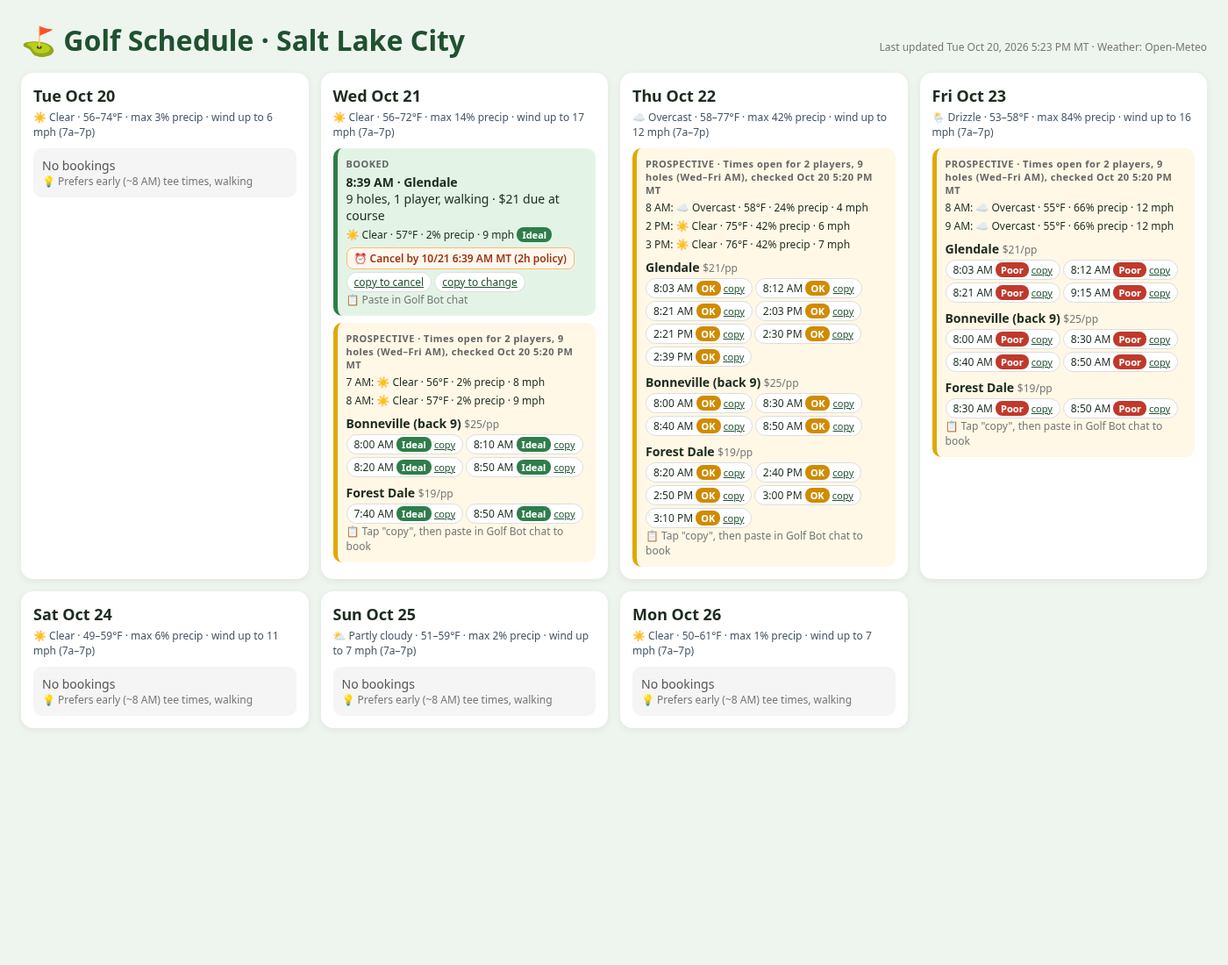
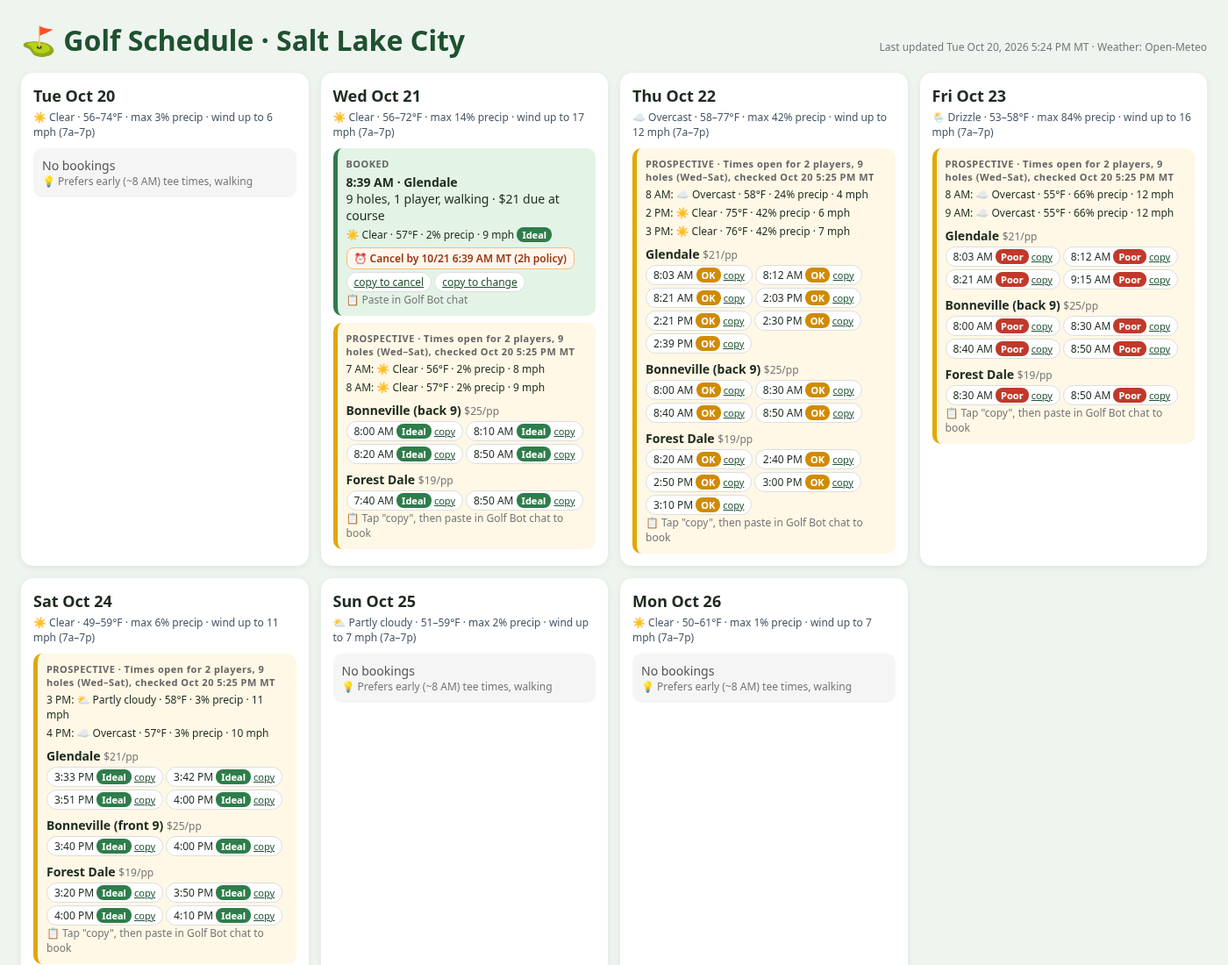
Update schedule 2026-10-20 17:24 MT

diff --git a/index.html b/index.html
@@ -9,5 +9,5 @@ h1{margin:0;color:#1f5130} .top{display:flex;justify-content:space-between;align
 .muted{color:#777;font-size:12px} .wx{font-size:12px;margin-top:4px} .prow{margin-top:8px}
 .cancelby{margin-top:6px;font-size:12px;font-weight:600;color:#9a3412;background:#fff7ed;border:1px solid #fdba74;border-radius:8px;padding:3px 8px;display:inline-block} .copy{font-size:11px;color:#1f5130} .chip{display:inline-block;background:#fff;border:1px solid #ddd;border-radius:14px;padding:2px 8px;margin:3px 3px 0 0;font-size:12px}
 .badge{border-radius:8px;padding:1px 6px;font-size:11px;font-weight:700;color:#fff} .ideal{background:#2e7d4a} .ok{background:#d08b00} .poor{background:#c0392b} .na{background:#888}
-</style></head><body><div class="top"><h1>⛳ Golf Schedule · Salt Lake City</h1><div class="muted">Last updated Tue Oct 20, 2026 5:23 PM MT · Weather: Open-Meteo</div></div>
-<div class="grid"><section class="day"><h2>Tue Oct 20</h2><div class="sum">☀ Clear · 56–74°F · max 3% precip · wind up to 6 mph (7a–7p)</div><div class="slot empty">No bookings<div class="muted">💡 Prefers early (~8 AM) tee times, walking</div></div></section><section class="day"><h2>Wed Oct 21</h2><div class="sum">☀ Clear · 56–72°F · max 14% precip · wind up to 17 mph (7a–7p)</div><div class="slot booked"><div class="tag">BOOKED</div><b>8:39 AM · Glendale</b><div>9 holes, 1 player, walking · $21 due at course</div><div class="wx">☀ Clear · 57°F · 2% precip · 9 mph <span class="badge ideal">Ideal</span></div><div class="cancelby">⏰ Cancel by 10/21 6:39 AM MT (2h policy)</div><a href="#" class="copy chip" data-msg="Cancel my Glendale tee time Wed Oct 21 8:39 AM" onclick="navigator.clipboard.writeText(this.dataset.msg);this.textContent='copied!';return false">copy to cancel</a><a href="#" class="copy chip" data-msg="Change my Glendale tee time Wed Oct 21 8:39 AM" onclick="navigator.clipboard.writeText(this.dataset.msg);this.textContent='copied!';return false">copy to change</a><div class="muted">📋 Paste in Golf Bot chat</div></div><div class="slot prospect"><div class="tag">PROSPECTIVE · Times open for 2 players, 9 holes (Wed–Fri AM), checked Oct 20 5:20 PM MT</div><div class="wx">7 AM: ☀ Clear · 56°F · 2% precip · 8 mph</div><div class="wx">8 AM: ☀ Clear · 57°F · 2% precip · 9 mph</div><div class="prow"><b>Bonneville (back 9)</b> <span class="muted">$25/pp</span><div><span class="chip">8:00 AM <span class="badge ideal" title="☀ Clear · 57°F · 2% precip · 9 mph">Ideal</span> <a href="#" class="copy" data-msg="Book Bonneville (back 9) Wed Oct 21 8:00 AM" onclick="navigator.clipboard.writeText(this.dataset.msg);this.textContent='copied!';return false">copy</a></span><span class="chip">8:10 AM <span class="badge ideal" title="☀ Clear · 57°F · 2% precip · 9 mph">Ideal</span> <a href="#" class="copy" data-msg="Book Bonneville (back 9) Wed Oct 21 8:10 AM" onclick="navigator.clipboard.writeText(this.dataset.msg);this.textContent='copied!';return false">copy</a></span><span class="chip">8:20 AM <span class="badge ideal" title="☀ Clear · 57°F · 2% precip · 9 mph">Ideal</span> <a href="#" class="copy" data-msg="Book Bonneville (back 9) Wed Oct 21 8:20 AM" onclick="navigator.clipboard.writeText(this.dataset.msg);this.textContent='copied!';return false">copy</a></span><span class="chip">8:50 AM <span class="badge ideal" title="☀ Clear · 57°F · 2% precip · 9 mph">Ideal</span> <a href="#" class="copy" data-msg="Book Bonneville (back 9) Wed Oct 21 8:50 AM" onclick="navigator.clipboard.writeText(this.dataset.msg);this.textContent='copied!';return false">copy</a></span></div></div><div class="prow"><b>Forest Dale</b> <span class="muted">$19/pp</span><div><span class="chip">7:40 AM <span class="badge ideal" title="☀ Clear · 56°F · 2% precip · 8 mph">Ideal</span> <a href="#" class="copy" data-msg="Book Forest Dale Wed Oct 21 7:40 AM" onclick="navigator.clipboard.writeText(this.dataset.msg);this.textContent='copied!';return false">copy</a></span><span class="chip">8:50 AM <span class="badge ideal" title="☀ Clear · 57°F · 2% precip · 9 mph">Ideal</span> <a href="#" class="copy" data-msg="Book Forest Dale Wed Oct 21 8:50 AM" onclick="navigator.clipboard.writeText(this.dataset.msg);this.textContent='copied!';return false">copy</a></span></div></div><div class="muted">📋 Tap "copy", then paste in Golf Bot chat to book</div></div></section><section class="day"><h2>Thu Oct 22</h2><div class="sum">☁ Overcast · 58–77°F · max 42% precip · wind up to 12 mph (7a–7p)</div><div class="slot prospect"><div class="tag">PROSPECTIVE · Times open for 2 players, 9 holes (Wed–Fri AM), checked Oct 20 5:20 PM MT</div><div class="wx">8 AM: ☁ Overcast · 58°F · 24% precip · 4 mph</div><div class="wx">2 PM: ☀ Clear · 75°F · 42% precip · 6 mph</div><div class="wx">3 PM: ☀ Clear · 76°F · 42% precip · 7 mph</div><div class="prow"><b>Glendale</b> <span class="muted">$21/pp</span><div><span class="chip">8:03 AM <span class="badge ok" title="☁ Overcast · 58°F · 24% precip · 4 mph">OK</span> <a href="#" class="copy" data-msg="Book Glendale Thu Oct 22 8:03 AM" onclick="navigator.clipboard.writeText(this.dataset.msg);this.textContent='copied!';return false">copy</a></span><span class="chip">8:12 AM <span class="badge ok" title="☁ Overcast · 58°F · 24% precip · 4 mph">OK</span> <a href="#" class="copy" data-msg="Book Glendale Thu Oct 22 8:12 AM" onclick="navigator.clipboard.writeText(this.dataset.msg);this.textContent='copied!';return false">copy</a></span><span class="chip">8:21 AM <span class="badge ok" title="☁ Overcast · 58°F · 24% precip · 4 mph">OK</span> <a href="#" class="copy" data-msg="Book Glendale Thu Oct 22 8:21 AM" onclick="navigator.clipboard.writeText(this.dataset.msg);this.textContent='copied!';return false">copy</a></span><span class="chip">2:03 PM <span class="badge ok" title="☀ Clear · 75°F · 42% precip · 6 mph">OK</span> <a href="#" class="copy" data-msg="Book Glendale Thu Oct 22 2:03 PM" onclick="navigator.clipboard.writeText(this.dataset.msg);this.textContent='copied!';return false">copy</a></span><span class="chip">2:21 PM <span class="badge ok" title="☀ Clear · 75°F · 42% precip · 6 mph">OK</span> <a href="#" class="copy" data-msg="Book Glendale Thu Oct 22 2:21 PM" onclick="navigator.clipboard.writeText(this.dataset.msg);this.textContent='copied!';return false">copy</a></span><span class="chip">2:30 PM <span class="badge ok" title="☀ Clear · 75°F · 42% precip · 6 mph">OK</span> <a href="#" class="copy" data-msg="Book Glendale Thu Oct 22 2:30 PM" onclick="navigator.clipboard.writeText(this.dataset.msg);this.textContent='copied!';return false">copy</a></span><span class="chip">2:39 PM <span class="badge ok" title="☀ Clear · 75°F · 42% precip · 6 mph">OK</span> <a href="#" class="copy" data-msg="Book Glendale Thu Oct 22 2:39 PM" onclick="navigator.clipboard.writeText(this.dataset.msg);this.textContent='copied!';return false">copy</a></span></div></div><div class="prow"><b>Bonneville (back 9)</b> <span class="muted">$25/pp</span><div><span class="chip">8:00 AM <span class="badge ok" title="☁ Overcast · 58°F · 24% precip · 4 mph">OK</span> <a href="#" class="copy" data-msg="Book Bonneville (back 9) Thu Oct 22 8:00 AM" onclick="navigator.clipboard.writeText(this.dataset.msg);this.textContent='copied!';return false">copy</a></span><span class="chip">8:30 AM <span class="badge ok" title="☁ Overcast · 58°F · 24% precip · 4 mph">OK</span> <a href="#" class="copy" data-msg="Book Bonneville (back 9) Thu Oct 22 8:30 AM" onclick="navigator.clipboard.writeText(this.dataset.msg);this.textContent='copied!';return false">copy</a></span><span class="chip">8:40 AM <span class="badge ok" title="☁ Overcast · 58°F · 24% precip · 4 mph">OK</span> <a href="#" class="copy" data-msg="Book Bonneville (back 9) Thu Oct 22 8:40 AM" onclick="navigator.clipboard.writeText(this.dataset.msg);this.textContent='copied!';return false">copy</a></span><span class="chip">8:50 AM <span class="badge ok" title="☁ Overcast · 58°F · 24% precip · 4 mph">OK</span> <a href="#" class="copy" data-msg="Book Bonneville (back 9) Thu Oct 22 8:50 AM" onclick="navigator.clipboard.writeText(this.dataset.msg);this.textContent='copied!';return false">copy</a></span></div></div><div class="prow"><b>Forest Dale</b> <span class="muted">$19/pp</span><div><span class="chip">8:20 AM <span class="badge ok" title="☁ Overcast · 58°F · 24% precip · 4 mph">OK</span> <a href="#" class="copy" data-msg="Book Forest Dale Thu Oct 22 8:20 AM" onclick="navigator.clipboard.writeText(this.dataset.msg);this.textContent='copied!';return false">copy</a></span><span class="chip">2:40 PM <span class="badge ok" title="☀ Clear · 75°F · 42% precip · 6 mph">OK</span> <a href="#" class="copy" data-msg="Book Forest Dale Thu Oct 22 2:40 PM" onclick="navigator.clipboard.writeText(this.dataset.msg);this.textContent='copied!';return false">copy</a></span><span class="chip">2:50 PM <span class="badge ok" title="☀ Clear · 75°F · 42% precip · 6 mph">OK</span> <a href="#" class="copy" data-msg="Book Forest Dale Thu Oct 22 2:50 PM" onclick="navigator.clipboard.writeText(this.dataset.msg);this.textContent='copied!';return false">copy</a></span><span class="chip">3:00 PM <span class="badge ok" title="☀ Clear · 76°F · 42% precip · 7 mph">OK</span> <a href="#" class="copy" data-msg="Book Forest Dale Thu Oct 22 3:00 PM" onclick="navigator.clipboard.writeText(this.dataset.msg);this.textContent='copied!';return false">copy</a></span><span class="chip">3:10 PM <span class="badge ok" title="☀ Clear · 76°F · 42% precip · 7 mph">OK</span> <a href="#" class="copy" data-msg="Book Forest Dale Thu Oct 22 3:10 PM" onclick="navigator.clipboard.writeText(this.dataset.msg);this.textContent='copied!';return false">copy</a></span></div></div><div class="muted">📋 Tap "copy", then paste in Golf Bot chat to book</div></div></section><section class="day"><h2>Fri Oct 23</h2><div class="sum">🌦 Drizzle · 53–58°F · max 84% precip · wind up to 16 mph (7a–7p)</div><div class="slot prospect"><div class="tag">PROSPECTIVE · Times open for 2 players, 9 holes (Wed–Fri AM), checked Oct 20 5:20 PM MT</div><div class="wx">8 AM: ☁ Overcast · 55°F · 66% precip · 12 mph</div><div class="wx">9 AM: ☁ Overcast · 55°F · 66% precip · 12 mph</div><div class="prow"><b>Glendale</b> <span class="muted">$21/pp</span><div><span class="chip">8:03 AM <span class="badge poor" title="☁ Overcast · 55°F · 66% precip · 12 mph">Poor</span> <a href="#" class="copy" data-msg="Book Glendale Fri Oct 23 8:03 AM" onclick="navigator.clipboard.writeText(this.dataset.msg);this.textContent='copied!';return false">copy</a></span><span class="chip">8:12 AM <span class="badge poor" title="☁ Overcast · 55°F · 66% precip · 12 mph">Poor</span> <a href="#" class="copy" data-msg="Book Glendale Fri Oct 23 8:12 AM" onclick="navigator.clipboard.writeText(this.dataset.msg);this.textContent='copied!';return false">copy</a></span><span class="chip">8:21 AM <span class="badge poor" title="☁ Overcast · 55°F · 66% precip · 12 mph">Poor</span> <a href="#" class="copy" data-msg="Book Glendale Fri Oct 23 8:21 AM" onclick="navigator.clipboard.writeText(this.dataset.msg);this.textContent='copied!';return false">copy</a></span><span class="chip">9:15 AM <span class="badge poor" title="☁ Overcast · 55°F · 66% precip · 12 mph">Poor</span> <a href="#" class="copy" data-msg="Book Glendale Fri Oct 23 9:15 AM" onclick="navigator.clipboard.writeText(this.dataset.msg);this.textContent='copied!';return false">copy</a></span></div></div><div class="prow"><b>Bonneville (back 9)</b> <span class="muted">$25/pp</span><div><span class="chip">8:00 AM <span class="badge poor" title="☁ Overcast · 55°F · 66% precip · 12 mph">Poor</span> <a href="#" class="copy" data-msg="Book Bonneville (back 9) Fri Oct 23 8:00 AM" onclick="navigator.clipboard.writeText(this.dataset.msg);this.textContent='copied!';return false">copy</a></span><span class="chip">8:30 AM <span class="badge poor" title="☁ Overcast · 55°F · 66% precip · 12 mph">Poor</span> <a href="#" class="copy" data-msg="Book Bonneville (back 9) Fri Oct 23 8:30 AM" onclick="navigator.clipboard.writeText(this.dataset.msg);this.textContent='copied!';return false">copy</a></span><span class="chip">8:40 AM <span class="badge poor" title="☁ Overcast · 55°F · 66% precip · 12 mph">Poor</span> <a href="#" class="copy" data-msg="Book Bonneville (back 9) Fri Oct 23 8:40 AM" onclick="navigator.clipboard.writeText(this.dataset.msg);this.textContent='copied!';return false">copy</a></span><span class="chip">8:50 AM <span class="badge poor" title="☁ Overcast · 55°F · 66% precip · 12 mph">Poor</span> <a href="#" class="copy" data-msg="Book Bonneville (back 9) Fri Oct 23 8:50 AM" onclick="navigator.clipboard.writeText(this.dataset.msg);this.textContent='copied!';return false">copy</a></span></div></div><div class="prow"><b>Forest Dale</b> <span class="muted">$19/pp</span><div><span class="chip">8:30 AM <span class="badge poor" title="☁ Overcast · 55°F · 66% precip · 12 mph">Poor</span> <a href="#" class="copy" data-msg="Book Forest Dale Fri Oct 23 8:30 AM" onclick="navigator.clipboard.writeText(this.dataset.msg);this.textContent='copied!';return false">copy</a></span><span class="chip">8:50 AM <span class="badge poor" title="☁ Overcast · 55°F · 66% precip · 12 mph">Poor</span> <a href="#" class="copy" data-msg="Book Forest Dale Fri Oct 23 8:50 AM" onclick="navigator.clipboard.writeText(this.dataset.msg);this.textContent='copied!';return false">copy</a></span></div></div><div class="muted">📋 Tap "copy", then paste in Golf Bot chat to book</div></div></section><section class="day"><h2>Sat Oct 24</h2><div class="sum">☀ Clear · 49–59°F · max 6% precip · wind up to 11 mph (7a–7p)</div><div class="slot empty">No bookings<div class="muted">💡 Prefers early (~8 AM) tee times, walking</div></div></section><section class="day"><h2>Sun Oct 25</h2><div class="sum">⛅ Partly cloudy · 51–59°F · max 2% precip · wind up to 7 mph (7a–7p)</div><div class="slot empty">No bookings<div class="muted">💡 Prefers early (~8 AM) tee times, walking</div></div></section><section class="day"><h2>Mon Oct 26</h2><div class="sum">☀ Clear · 50–61°F · max 1% precip · wind up to 7 mph (7a–7p)</div><div class="slot empty">No bookings<div class="muted">💡 Prefers early (~8 AM) tee times, walking</div></div></section></div></body></html>
+</style></head><body><div class="top"><h1>⛳ Golf Schedule · Salt Lake City</h1><div class="muted">Last updated Tue Oct 20, 2026 5:24 PM MT · Weather: Open-Meteo</div></div>
+<div class="grid"><section class="day"><h2>Tue Oct 20</h2><div class="sum">☀ Clear · 56–74°F · max 3% precip · wind up to 6 mph (7a–7p)</div><div class="slot empty">No bookings<div class="muted">💡 Prefers early (~8 AM) tee times, walking</div></div></section><section class="day"><h2>Wed Oct 21</h2><div class="sum">☀ Clear · 56–72°F · max 14% precip · wind up to 17 mph (7a–7p)</div><div class="slot booked"><div class="tag">BOOKED</div><b>8:39 AM · Glendale</b><div>9 holes, 1 player, walking · $21 due at course</div><div class="wx">☀ Clear · 57°F · 2% precip · 9 mph <span class="badge ideal">Ideal</span></div><div class="cancelby">⏰ Cancel by 10/21 6:39 AM MT (2h policy)</div><a href="#" class="copy chip" data-msg="Cancel my Glendale tee time Wed Oct 21 8:39 AM" onclick="navigator.clipboard.writeText(this.dataset.msg);this.textContent='copied!';return false">copy to cancel</a><a href="#" class="copy chip" data-msg="Change my Glendale tee time Wed Oct 21 8:39 AM" onclick="navigator.clipboard.writeText(this.dataset.msg);this.textContent='copied!';return false">copy to change</a><div class="muted">📋 Paste in Golf Bot chat</div></div><div class="slot prospect"><div class="tag">PROSPECTIVE · Times open for 2 players, 9 holes (Wed–Sat), checked Oct 20 5:25 PM MT</div><div class="wx">7 AM: ☀ Clear · 56°F · 2% precip · 8 mph</div><div class="wx">8 AM: ☀ Clear · 57°F · 2% precip · 9 mph</div><div class="prow"><b>Bonneville (back 9)</b> <span class="muted">$25/pp</span><div><span class="chip">8:00 AM <span class="badge ideal" title="☀ Clear · 57°F · 2% precip · 9 mph">Ideal</span> <a href="#" class="copy" data-msg="Book Bonneville (back 9) Wed Oct 21 8:00 AM" onclick="navigator.clipboard.writeText(this.dataset.msg);this.textContent='copied!';return false">copy</a></span><span class="chip">8:10 AM <span class="badge ideal" title="☀ Clear · 57°F · 2% precip · 9 mph">Ideal</span> <a href="#" class="copy" data-msg="Book Bonneville (back 9) Wed Oct 21 8:10 AM" onclick="navigator.clipboard.writeText(this.dataset.msg);this.textContent='copied!';return false">copy</a></span><span class="chip">8:20 AM <span class="badge ideal" title="☀ Clear · 57°F · 2% precip · 9 mph">Ideal</span> <a href="#" class="copy" data-msg="Book Bonneville (back 9) Wed Oct 21 8:20 AM" onclick="navigator.clipboard.writeText(this.dataset.msg);this.textContent='copied!';return false">copy</a></span><span class="chip">8:50 AM <span class="badge ideal" title="☀ Clear · 57°F · 2% precip · 9 mph">Ideal</span> <a href="#" class="copy" data-msg="Book Bonneville (back 9) Wed Oct 21 8:50 AM" onclick="navigator.clipboard.writeText(this.dataset.msg);this.textContent='copied!';return false">copy</a></span></div></div><div class="prow"><b>Forest Dale</b> <span class="muted">$19/pp</span><div><span class="chip">7:40 AM <span class="badge ideal" title="☀ Clear · 56°F · 2% precip · 8 mph">Ideal</span> <a href="#" class="copy" data-msg="Book Forest Dale Wed Oct 21 7:40 AM" onclick="navigator.clipboard.writeText(this.dataset.msg);this.textContent='copied!';return false">copy</a></span><span class="chip">8:50 AM <span class="badge ideal" title="☀ Clear · 57°F · 2% precip · 9 mph">Ideal</span> <a href="#" class="copy" data-msg="Book Forest Dale Wed Oct 21 8:50 AM" onclick="navigator.clipboard.writeText(this.dataset.msg);this.textContent='copied!';return false">copy</a></span></div></div><div class="muted">📋 Tap "copy", then paste in Golf Bot chat to book</div></div></section><section class="day"><h2>Thu Oct 22</h2><div class="sum">☁ Overcast · 58–77°F · max 42% precip · wind up to 12 mph (7a–7p)</div><div class="slot prospect"><div class="tag">PROSPECTIVE · Times open for 2 players, 9 holes (Wed–Sat), checked Oct 20 5:25 PM MT</div><div class="wx">8 AM: ☁ Overcast · 58°F · 24% precip · 4 mph</div><div class="wx">2 PM: ☀ Clear · 75°F · 42% precip · 6 mph</div><div class="wx">3 PM: ☀ Clear · 76°F · 42% precip · 7 mph</div><div class="prow"><b>Glendale</b> <span class="muted">$21/pp</span><div><span class="chip">8:03 AM <span class="badge ok" title="☁ Overcast · 58°F · 24% precip · 4 mph">OK</span> <a href="#" class="copy" data-msg="Book Glendale Thu Oct 22 8:03 AM" onclick="navigator.clipboard.writeText(this.dataset.msg);this.textContent='copied!';return false">copy</a></span><span class="chip">8:12 AM <span class="badge ok" title="☁ Overcast · 58°F · 24% precip · 4 mph">OK</span> <a href="#" class="copy" data-msg="Book Glendale Thu Oct 22 8:12 AM" onclick="navigator.clipboard.writeText(this.dataset.msg);this.textContent='copied!';return false">copy</a></span><span class="chip">8:21 AM <span class="badge ok" title="☁ Overcast · 58°F · 24% precip · 4 mph">OK</span> <a href="#" class="copy" data-msg="Book Glendale Thu Oct 22 8:21 AM" onclick="navigator.clipboard.writeText(this.dataset.msg);this.textContent='copied!';return false">copy</a></span><span class="chip">2:03 PM <span class="badge ok" title="☀ Clear · 75°F · 42% precip · 6 mph">OK</span> <a href="#" class="copy" data-msg="Book Glendale Thu Oct 22 2:03 PM" onclick="navigator.clipboard.writeText(this.dataset.msg);this.textContent='copied!';return false">copy</a></span><span class="chip">2:21 PM <span class="badge ok" title="☀ Clear · 75°F · 42% precip · 6 mph">OK</span> <a href="#" class="copy" data-msg="Book Glendale Thu Oct 22 2:21 PM" onclick="navigator.clipboard.writeText(this.dataset.msg);this.textContent='copied!';return false">copy</a></span><span class="chip">2:30 PM <span class="badge ok" title="☀ Clear · 75°F · 42% precip · 6 mph">OK</span> <a href="#" class="copy" data-msg="Book Glendale Thu Oct 22 2:30 PM" onclick="navigator.clipboard.writeText(this.dataset.msg);this.textContent='copied!';return false">copy</a></span><span class="chip">2:39 PM <span class="badge ok" title="☀ Clear · 75°F · 42% precip · 6 mph">OK</span> <a href="#" class="copy" data-msg="Book Glendale Thu Oct 22 2:39 PM" onclick="navigator.clipboard.writeText(this.dataset.msg);this.textContent='copied!';return false">copy</a></span></div></div><div class="prow"><b>Bonneville (back 9)</b> <span class="muted">$25/pp</span><div><span class="chip">8:00 AM <span class="badge ok" title="☁ Overcast · 58°F · 24% precip · 4 mph">OK</span> <a href="#" class="copy" data-msg="Book Bonneville (back 9) Thu Oct 22 8:00 AM" onclick="navigator.clipboard.writeText(this.dataset.msg);this.textContent='copied!';return false">copy</a></span><span class="chip">8:30 AM <span class="badge ok" title="☁ Overcast · 58°F · 24% precip · 4 mph">OK</span> <a href="#" class="copy" data-msg="Book Bonneville (back 9) Thu Oct 22 8:30 AM" onclick="navigator.clipboard.writeText(this.dataset.msg);this.textContent='copied!';return false">copy</a></span><span class="chip">8:40 AM <span class="badge ok" title="☁ Overcast · 58°F · 24% precip · 4 mph">OK</span> <a href="#" class="copy" data-msg="Book Bonneville (back 9) Thu Oct 22 8:40 AM" onclick="navigator.clipboard.writeText(this.dataset.msg);this.textContent='copied!';return false">copy</a></span><span class="chip">8:50 AM <span class="badge ok" title="☁ Overcast · 58°F · 24% precip · 4 mph">OK</span> <a href="#" class="copy" data-msg="Book Bonneville (back 9) Thu Oct 22 8:50 AM" onclick="navigator.clipboard.writeText(this.dataset.msg);this.textContent='copied!';return false">copy</a></span></div></div><div class="prow"><b>Forest Dale</b> <span class="muted">$19/pp</span><div><span class="chip">8:20 AM <span class="badge ok" title="☁ Overcast · 58°F · 24% precip · 4 mph">OK</span> <a href="#" class="copy" data-msg="Book Forest Dale Thu Oct 22 8:20 AM" onclick="navigator.clipboard.writeText(this.dataset.msg);this.textContent='copied!';return false">copy</a></span><span class="chip">2:40 PM <span class="badge ok" title="☀ Clear · 75°F · 42% precip · 6 mph">OK</span> <a href="#" class="copy" data-msg="Book Forest Dale Thu Oct 22 2:40 PM" onclick="navigator.clipboard.writeText(this.dataset.msg);this.textContent='copied!';return false">copy</a></span><span class="chip">2:50 PM <span class="badge ok" title="☀ Clear · 75°F · 42% precip · 6 mph">OK</span> <a href="#" class="copy" data-msg="Book Forest Dale Thu Oct 22 2:50 PM" onclick="navigator.clipboard.writeText(this.dataset.msg);this.textContent='copied!';return false">copy</a></span><span class="chip">3:00 PM <span class="badge ok" title="☀ Clear · 76°F · 42% precip · 7 mph">OK</span> <a href="#" class="copy" data-msg="Book Forest Dale Thu Oct 22 3:00 PM" onclick="navigator.clipboard.writeText(this.dataset.msg);this.textContent='copied!';return false">copy</a></span><span class="chip">3:10 PM <span class="badge ok" title="☀ Clear · 76°F · 42% precip · 7 mph">OK</span> <a href="#" class="copy" data-msg="Book Forest Dale Thu Oct 22 3:10 PM" onclick="navigator.clipboard.writeText(this.dataset.msg);this.textContent='copied!';return false">copy</a></span></div></div><div class="muted">📋 Tap "copy", then paste in Golf Bot chat to book</div></div></section><section class="day"><h2>Fri Oct 23</h2><div class="sum">🌦 Drizzle · 53–58°F · max 84% precip · wind up to 16 mph (7a–7p)</div><div class="slot prospect"><div class="tag">PROSPECTIVE · Times open for 2 players, 9 holes (Wed–Sat), checked Oct 20 5:25 PM MT</div><div class="wx">8 AM: ☁ Overcast · 55°F · 66% precip · 12 mph</div><div class="wx">9 AM: ☁ Overcast · 55°F · 66% precip · 12 mph</div><div class="prow"><b>Glendale</b> <span class="muted">$21/pp</span><div><span class="chip">8:03 AM <span class="badge poor" title="☁ Overcast · 55°F · 66% precip · 12 mph">Poor</span> <a href="#" class="copy" data-msg="Book Glendale Fri Oct 23 8:03 AM" onclick="navigator.clipboard.writeText(this.dataset.msg);this.textContent='copied!';return false">copy</a></span><span class="chip">8:12 AM <span class="badge poor" title="☁ Overcast · 55°F · 66% precip · 12 mph">Poor</span> <a href="#" class="copy" data-msg="Book Glendale Fri Oct 23 8:12 AM" onclick="navigator.clipboard.writeText(this.dataset.msg);this.textContent='copied!';return false">copy</a></span><span class="chip">8:21 AM <span class="badge poor" title="☁ Overcast · 55°F · 66% precip · 12 mph">Poor</span> <a href="#" class="copy" data-msg="Book Glendale Fri Oct 23 8:21 AM" onclick="navigator.clipboard.writeText(this.dataset.msg);this.textContent='copied!';return false">copy</a></span><span class="chip">9:15 AM <span class="badge poor" title="☁ Overcast · 55°F · 66% precip · 12 mph">Poor</span> <a href="#" class="copy" data-msg="Book Glendale Fri Oct 23 9:15 AM" onclick="navigator.clipboard.writeText(this.dataset.msg);this.textContent='copied!';return false">copy</a></span></div></div><div class="prow"><b>Bonneville (back 9)</b> <span class="muted">$25/pp</span><div><span class="chip">8:00 AM <span class="badge poor" title="☁ Overcast · 55°F · 66% precip · 12 mph">Poor</span> <a href="#" class="copy" data-msg="Book Bonneville (back 9) Fri Oct 23 8:00 AM" onclick="navigator.clipboard.writeText(this.dataset.msg);this.textContent='copied!';return false">copy</a></span><span class="chip">8:30 AM <span class="badge poor" title="☁ Overcast · 55°F · 66% precip · 12 mph">Poor</span> <a href="#" class="copy" data-msg="Book Bonneville (back 9) Fri Oct 23 8:30 AM" onclick="navigator.clipboard.writeText(this.dataset.msg);this.textContent='copied!';return false">copy</a></span><span class="chip">8:40 AM <span class="badge poor" title="☁ Overcast · 55°F · 66% precip · 12 mph">Poor</span> <a href="#" class="copy" data-msg="Book Bonneville (back 9) Fri Oct 23 8:40 AM" onclick="navigator.clipboard.writeText(this.dataset.msg);this.textContent='copied!';return false">copy</a></span><span class="chip">8:50 AM <span class="badge poor" title="☁ Overcast · 55°F · 66% precip · 12 mph">Poor</span> <a href="#" class="copy" data-msg="Book Bonneville (back 9) Fri Oct 23 8:50 AM" onclick="navigator.clipboard.writeText(this.dataset.msg);this.textContent='copied!';return false">copy</a></span></div></div><div class="prow"><b>Forest Dale</b> <span class="muted">$19/pp</span><div><span class="chip">8:30 AM <span class="badge poor" title="☁ Overcast · 55°F · 66% precip · 12 mph">Poor</span> <a href="#" class="copy" data-msg="Book Forest Dale Fri Oct 23 8:30 AM" onclick="navigator.clipboard.writeText(this.dataset.msg);this.textContent='copied!';return false">copy</a></span><span class="chip">8:50 AM <span class="badge poor" title="☁ Overcast · 55°F · 66% precip · 12 mph">Poor</span> <a href="#" class="copy" data-msg="Book Forest Dale Fri Oct 23 8:50 AM" onclick="navigator.clipboard.writeText(this.dataset.msg);this.textContent='copied!';return false">copy</a></span></div></div><div class="muted">📋 Tap "copy", then paste in Golf Bot chat to book</div></div></section><section class="day"><h2>Sat Oct 24</h2><div class="sum">☀ Clear · 49–59°F · max 6% precip · wind up to 11 mph (7a–7p)</div><div class="slot prospect"><div class="tag">PROSPECTIVE · Times open for 2 players, 9 holes (Wed–Sat), checked Oct 20 5:25 PM MT</div><div class="wx">3 PM: ⛅ Partly cloudy · 58°F · 3% precip · 11 mph</div><div class="wx">4 PM: ☁ Overcast · 57°F · 3% precip · 10 mph</div><div class="prow"><b>Glendale</b> <span class="muted">$21/pp</span><div><span class="chip">3:33 PM <span class="badge ideal" title="⛅ Partly cloudy · 58°F · 3% precip · 11 mph">Ideal</span> <a href="#" class="copy" data-msg="Book Glendale Sat Oct 24 3:33 PM" onclick="navigator.clipboard.writeText(this.dataset.msg);this.textContent='copied!';return false">copy</a></span><span class="chip">3:42 PM <span class="badge ideal" title="⛅ Partly cloudy · 58°F · 3% precip · 11 mph">Ideal</span> <a href="#" class="copy" data-msg="Book Glendale Sat Oct 24 3:42 PM" onclick="navigator.clipboard.writeText(this.dataset.msg);this.textContent='copied!';return false">copy</a></span><span class="chip">3:51 PM <span class="badge ideal" title="⛅ Partly cloudy · 58°F · 3% precip · 11 mph">Ideal</span> <a href="#" class="copy" data-msg="Book Glendale Sat Oct 24 3:51 PM" onclick="navigator.clipboard.writeText(this.dataset.msg);this.textContent='copied!';return false">copy</a></span><span class="chip">4:00 PM <span class="badge ideal" title="☁ Overcast · 57°F · 3% precip · 10 mph">Ideal</span> <a href="#" class="copy" data-msg="Book Glendale Sat Oct 24 4:00 PM" onclick="navigator.clipboard.writeText(this.dataset.msg);this.textContent='copied!';return false">copy</a></span></div></div><div class="prow"><b>Bonneville (front 9)</b> <span class="muted">$25/pp</span><div><span class="chip">3:40 PM <span class="badge ideal" title="⛅ Partly cloudy · 58°F · 3% precip · 11 mph">Ideal</span> <a href="#" class="copy" data-msg="Book Bonneville (front 9) Sat Oct 24 3:40 PM" onclick="navigator.clipboard.writeText(this.dataset.msg);this.textContent='copied!';return false">copy</a></span><span class="chip">4:00 PM <span class="badge ideal" title="☁ Overcast · 57°F · 3% precip · 10 mph">Ideal</span> <a href="#" class="copy" data-msg="Book Bonneville (front 9) Sat Oct 24 4:00 PM" onclick="navigator.clipboard.writeText(this.dataset.msg);this.textContent='copied!';return false">copy</a></span></div></div><div class="prow"><b>Forest Dale</b> <span class="muted">$19/pp</span><div><span class="chip">3:20 PM <span class="badge ideal" title="⛅ Partly cloudy · 58°F · 3% precip · 11 mph">Ideal</span> <a href="#" class="copy" data-msg="Book Forest Dale Sat Oct 24 3:20 PM" onclick="navigator.clipboard.writeText(this.dataset.msg);this.textContent='copied!';return false">copy</a></span><span class="chip">3:50 PM <span class="badge ideal" title="⛅ Partly cloudy · 58°F · 3% precip · 11 mph">Ideal</span> <a href="#" class="copy" data-msg="Book Forest Dale Sat Oct 24 3:50 PM" onclick="navigator.clipboard.writeText(this.dataset.msg);this.textContent='copied!';return false">copy</a></span><span class="chip">4:00 PM <span class="badge ideal" title="☁ Overcast · 57°F · 3% precip · 10 mph">Ideal</span> <a href="#" class="copy" data-msg="Book Forest Dale Sat Oct 24 4:00 PM" onclick="navigator.clipboard.writeText(this.dataset.msg);this.textContent='copied!';return false">copy</a></span><span class="chip">4:10 PM <span class="badge ideal" title="☁ Overcast · 57°F · 3% precip · 10 mph">Ideal</span> <a href="#" class="copy" data-msg="Book Forest Dale Sat Oct 24 4:10 PM" onclick="navigator.clipboard.writeText(this.dataset.msg);this.textContent='copied!';return false">copy</a></span></div></div><div class="muted">📋 Tap "copy", then paste in Golf Bot chat to book</div></div></section><section class="day"><h2>Sun Oct 25</h2><div class="sum">⛅ Partly cloudy · 51–59°F · max 2% precip · wind up to 7 mph (7a–7p)</div><div class="slot empty">No bookings<div class="muted">💡 Prefers early (~8 AM) tee times, walking</div></div></section><section class="day"><h2>Mon Oct 26</h2><div class="sum">☀ Clear · 50–61°F · max 1% precip · wind up to 7 mph (7a–7p)</div><div class="slot empty">No bookings<div class="muted">💡 Prefers early (~8 AM) tee times, walking</div></div></section></div></body></html>
